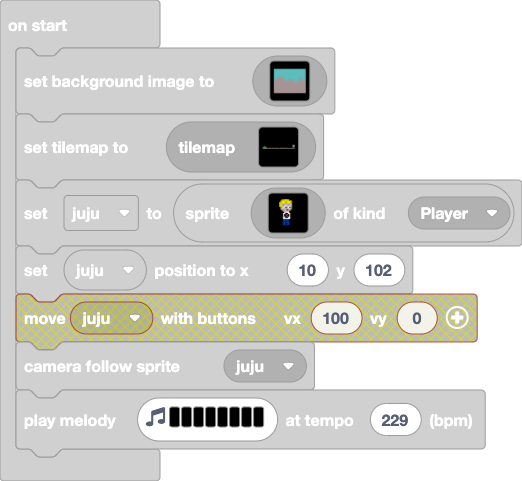
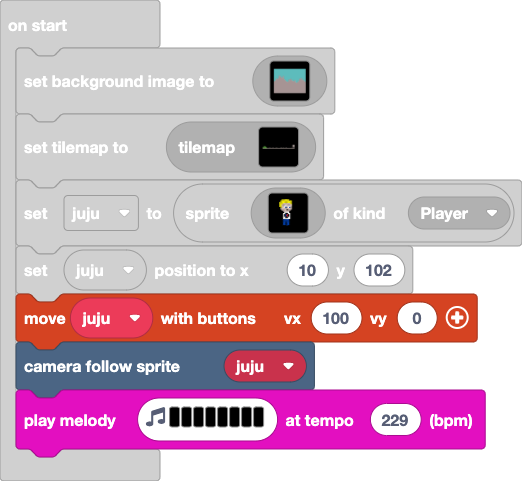
Update main.blocks, main.ts

Changed region(s): [[0.0307, 0.5925, 0.9502, 0.9667]]

diff --git a/main.ts b/main.ts
@@ -160,5 +160,6 @@ juju = sprites.create(img`
     ................
     `, SpriteKind.Player)
 juju.setPosition(10, 102)
+controller.moveSprite(juju, 100, 0)
 scene.cameraFollowSprite(juju)
 music.playMelody("C5 - C5 C5 G A E G ", 229)
